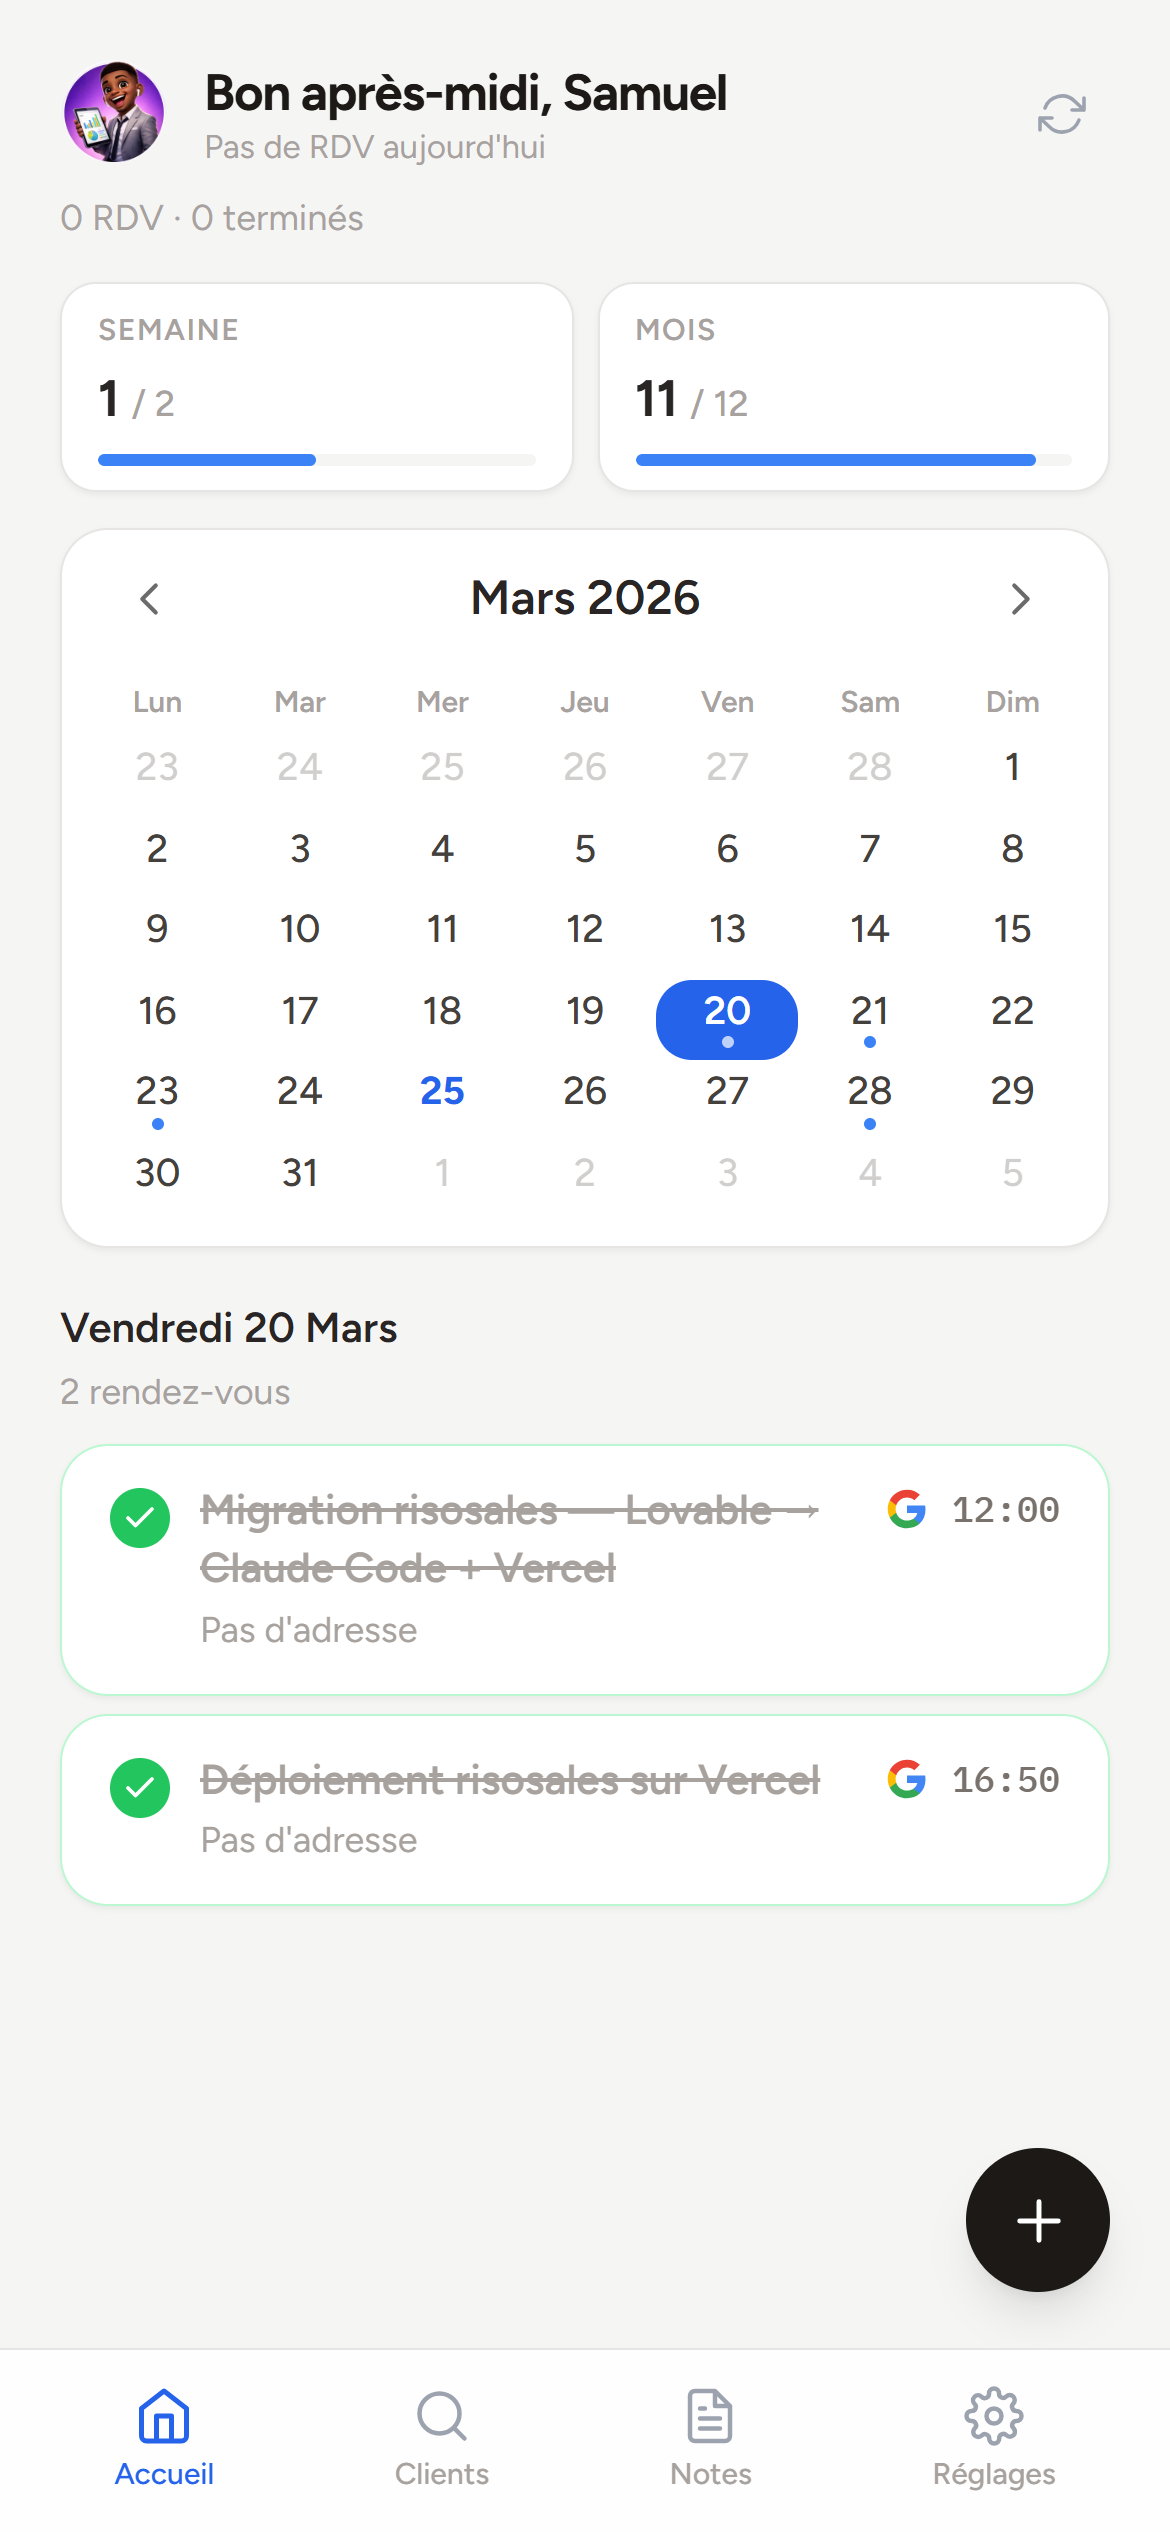
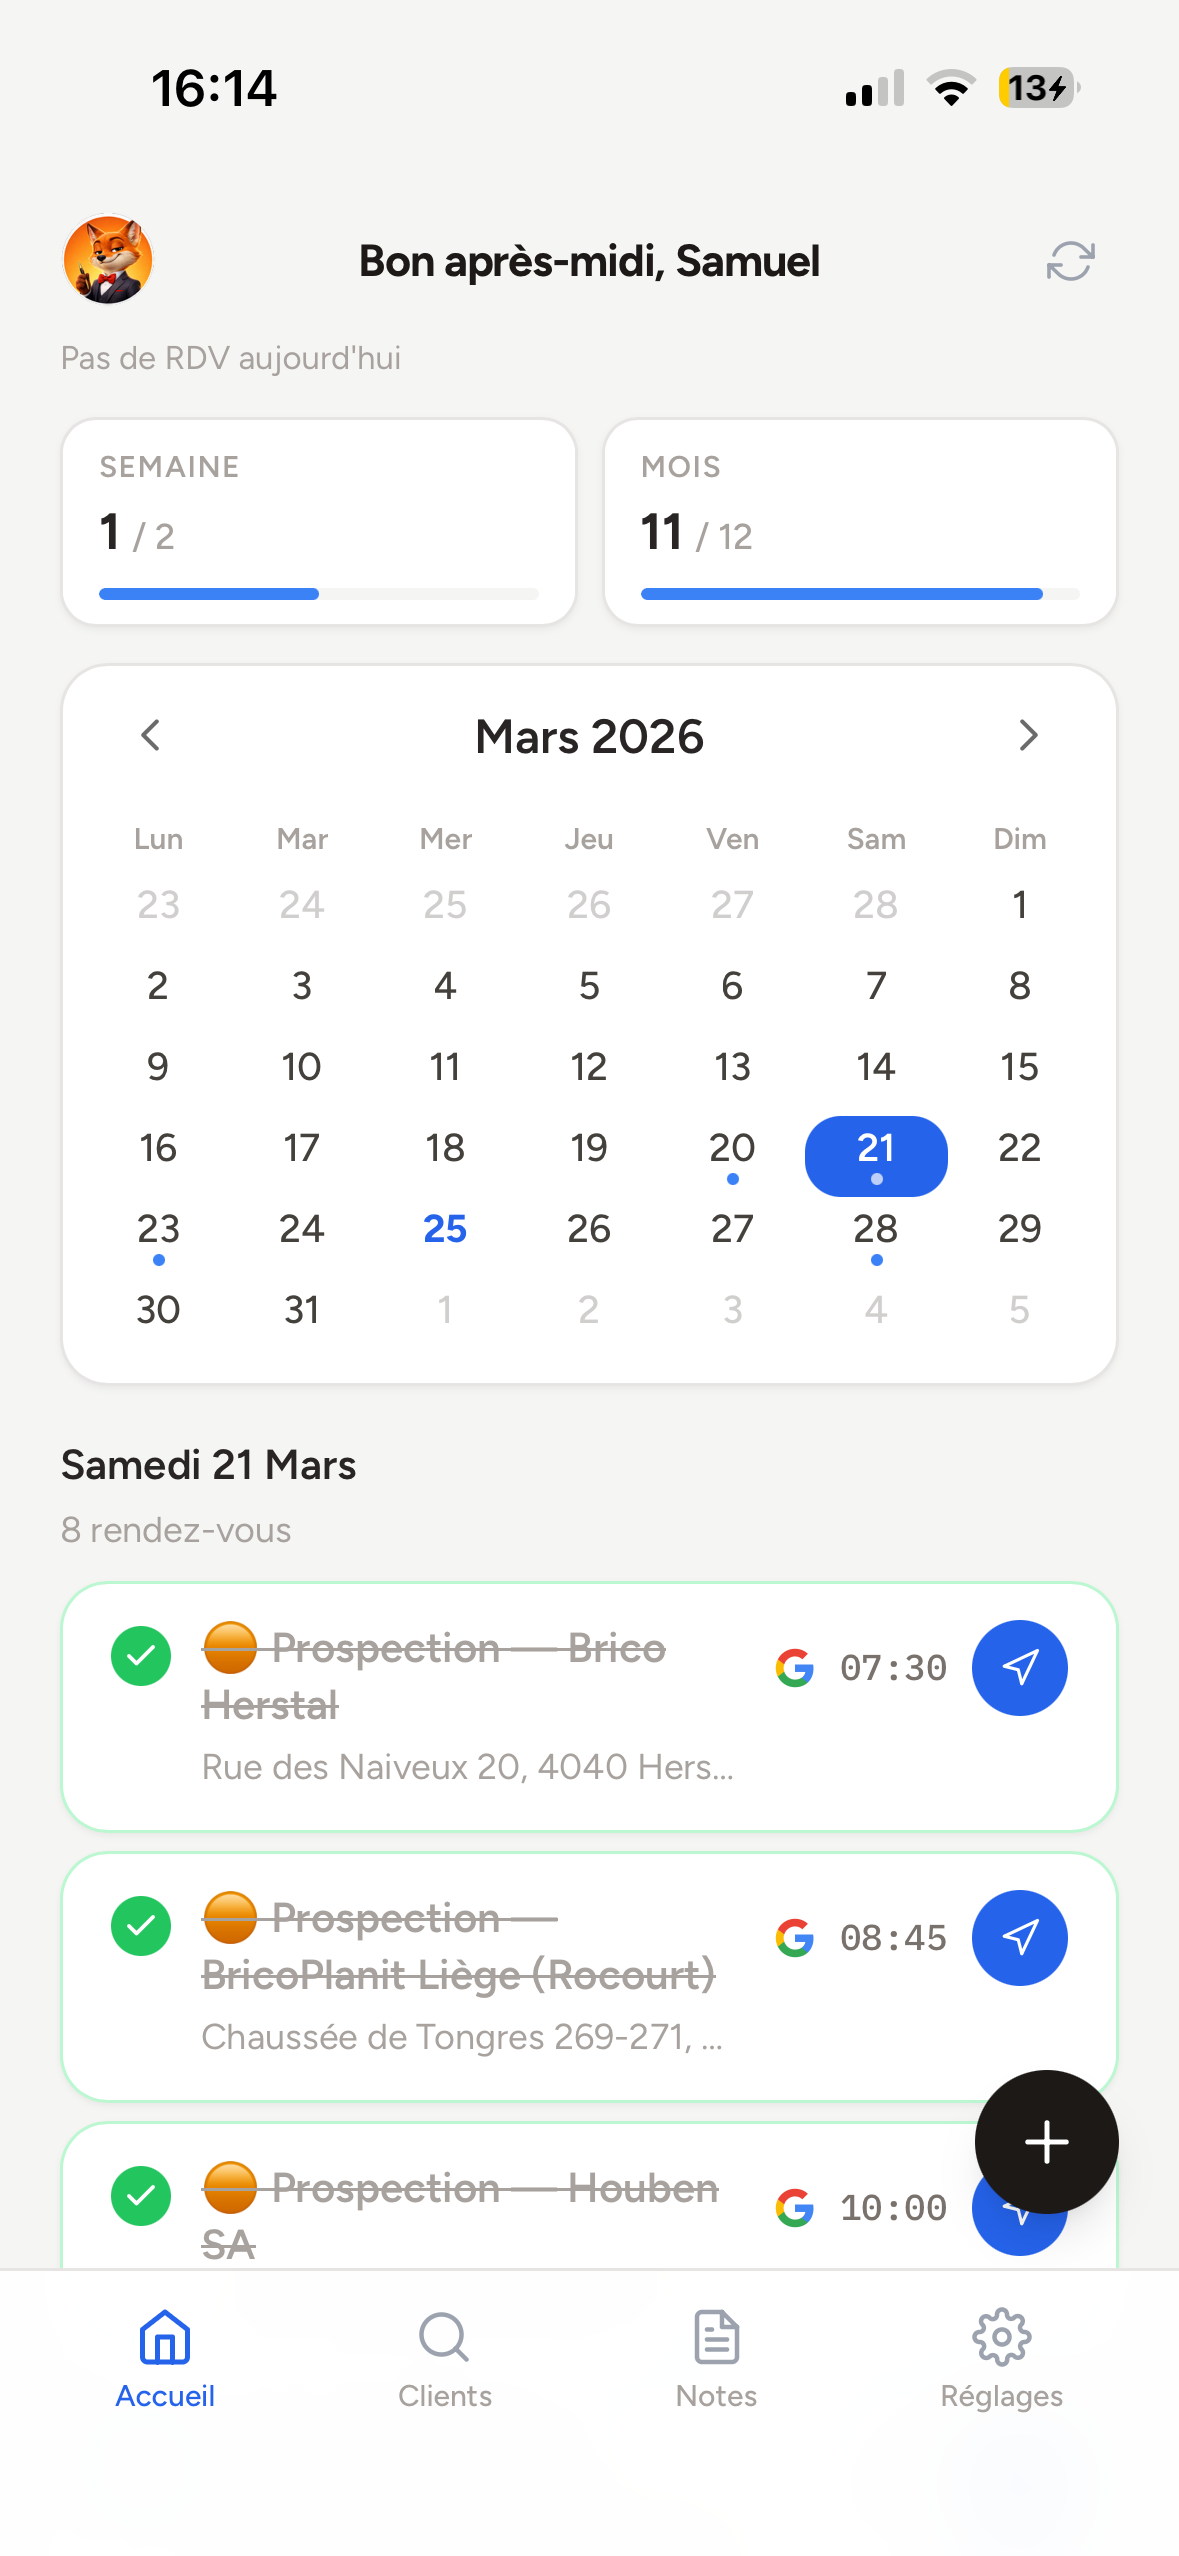
fix: remet coordonnées exactes iPhone + nouveaux screenshots natifs

diff --git a/components/sections/Realisations.tsx b/components/sections/Realisations.tsx
@@ -116,7 +116,7 @@ function PhoneCarousel({ images }: { images: string[] }) {
       <div style={{ position: "relative" }}>
         <div style={{
           position: "absolute",
-          top: "15.5%", left: "12.68%", right: "12.74%", bottom: "5.0%",
+          top: "10.37%", left: "12.68%", right: "12.74%", bottom: "6.82%",
           zIndex: 1, overflow: "hidden", backgroundColor: "#000",
           borderRadius: "22px",
         }}>
